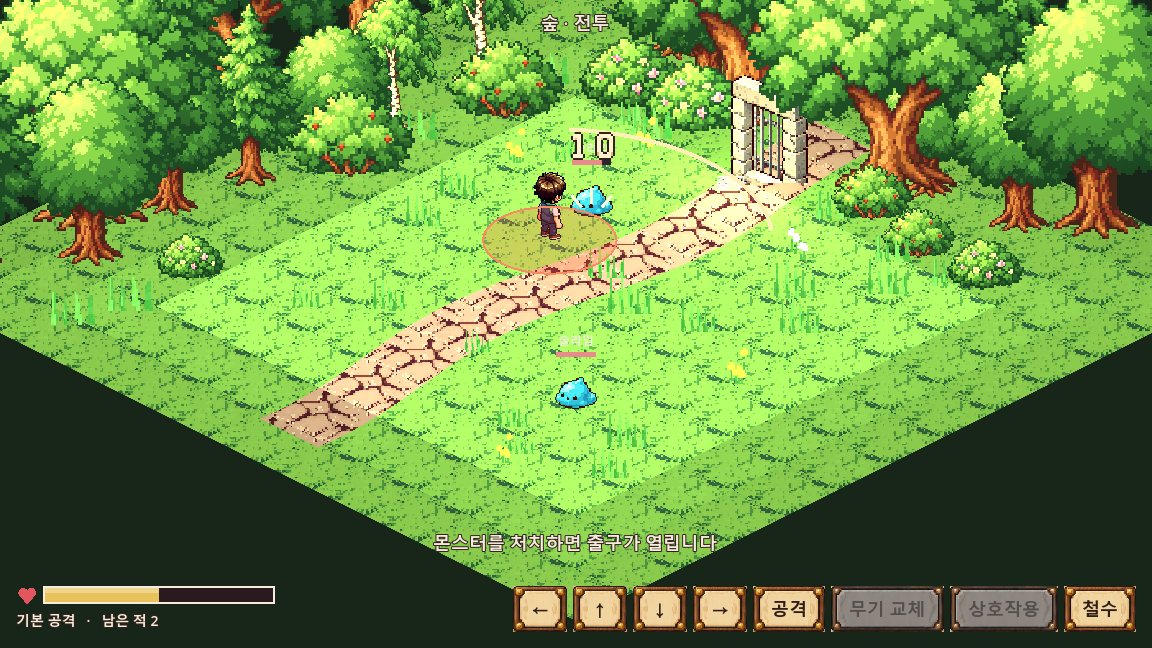
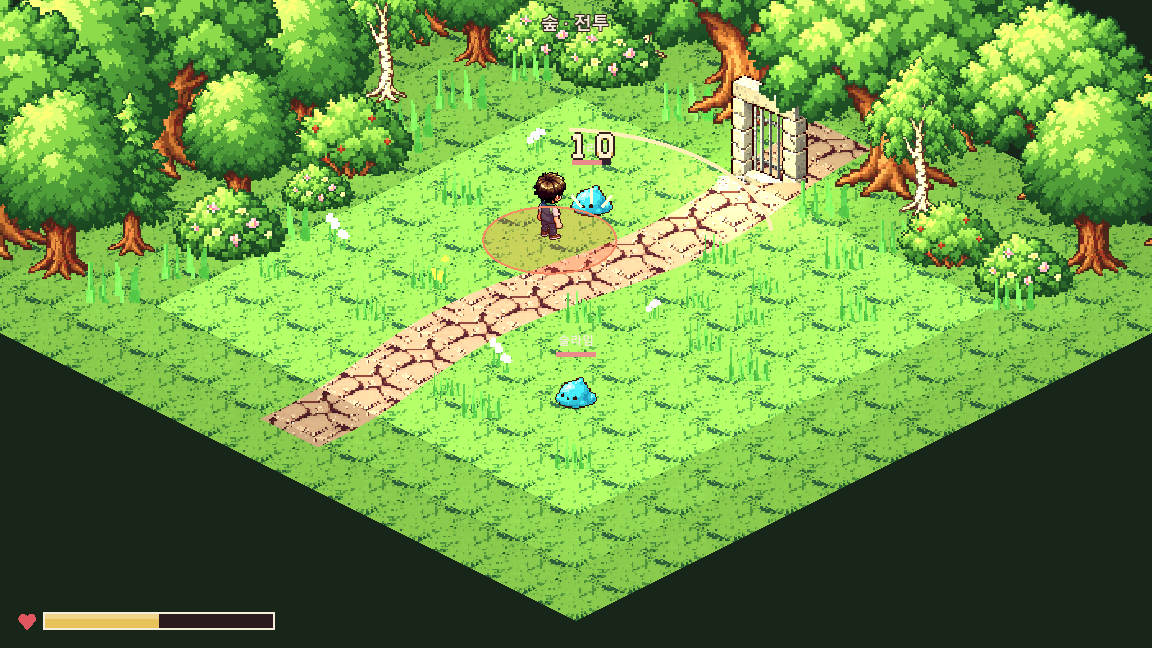
fix: clear the expedition footer except health
Hide all bottom action controls, weapon/enemy text and idle guidance. Keep necessary status under the title. Preserve keyboard actions, add R room withdrawal with menu guard, and keep old button signals hidden for compatibility.

Godot 4.7.1 import twice errors 0; GPU HUD 102/0 at both display sizes; actual E/J/R progression 66/0; loads 891/0; expedition 16/16 clears, 104 nodes, stuck 0; docs missing/broken 0. Runtime screenshots and handoff updated.

diff --git a/docs/그림_작업/원정_UI와_피해_숫자.md b/docs/그림_작업/원정_UI와_피해_숫자.md
@@ -5,9 +5,9 @@
 ## 표시 방식
 
 - 방 화면의 WASD·방향키·J/Space·Q·E 설명과 버튼의 단축키 표기를 없앴다. 기존 키 입력과 버튼 기능은 그대로 작동한다.
-- 하트·HP 막대를 왼쪽 아래로 옮겼다. 체력은 기존처럼 막대로 표시하고, 무기·남은 적은 바로 아래에 표시한다.
-- 행동 버튼은 오른쪽 아래에 배치한다. 작은 표시 영역에서는 HP 위로 올리고 줄을 나눠 겹침을 방지한다.
-- 도구 부족, 채집 진행·결과, 열린 출구 등 진행 상태는 유지한다. 상태 문구에 외곽선을 붙여 밝은 배경에서도 읽히게 했다.
+- 하트·HP 막대를 왼쪽 아래로 옮겼다. 사용자 후속 요청으로 무기·남은 적 문구까지 없애고 하단에는 HP만 표시한다.
+- 사용자 후속 요청으로 하단의 이동·공격·교체·상호작용·철수 버튼도 화면에서 제거했다. WASD/방향키·J/Space·Q·E 입력은 유지하고, 방 안 철수는 R 키로 연결했다. 메뉴가 열려 있으면 이 입력도 차단한다.
+- 도구 부족, 채집 진행·결과, 열린 출구 등 진행 상태는 유지한다. 필요한 상태 문구는 제목 아래로 옮기고 외곽선을 붙였다. 평소의 전투·출구 안내는 숨겨 하단을 비운다.
 
 ## 숫자 그림과 연결
 
@@ -31,7 +31,7 @@ imagegen으로 **0~9를 한 장씩** 만들었다. 받은 원본 10장과 프롬
 
 ![1152×648 원정 HP·피해 10 표시](원정_UI와_피해_숫자/원정_1152.png)
 
-![593×523 표시 영역의 버튼 줄바꿈](원정_UI와_피해_숫자/원정_593.png)
+![593×523 표시 영역에서도 하단은 HP만 표시](원정_UI와_피해_숫자/원정_593.png)
 
 작은 창 캡처는 검사 장면에서 확대 설정을 잠시 해제해 표시 영역을 실제 픽셀 크기로 확인했다. 게임의 기본 창 확대 설정은 그대로다.
 
@@ -42,7 +42,7 @@ imagegen으로 **0~9를 한 장씩** 만들었다. 받은 원본 10장과 프롬
 | 검사 | 결과 |
 |---|---|
 | 숫자 원본·재현·SHA·알파·규격 | 10장 통과 |
-| HUD·피해 표시 GPU | 1152×648·593×523 각각 110개, 실패 0 |
+| HUD·피해 표시 GPU | 1152×648·593×523 각각 102개, 실패 0 |
 | 실제 피해·빗나감·근접/원거리·여러 적·과잉 피해·효과 만료 | 통과 |
 | 기존 직접 조작·피해 계산 | 실패 0 |
 | 실제 채집·출구·입력·전리품·철수 흐름 | 66개, 실패 0 |
@@ -54,5 +54,7 @@ imagegen으로 **0~9를 한 장씩** 만들었다. 받은 원본 10장과 프롬
 | 경제 계산기 | 종료 코드 0, 경제 데이터·피해 계산식 불변 |
 
 기존 전체 로드의 Unicode NUL 경고는 유지된다. `tools/prepare_damage_digits.py`는 기본 읽기 전용 재현 검사이며, 새 원본 설치는 `--inputs`를 지정한 경우만 수행한다.
+
+후속 점검: 버튼·무기/남은 적·평상시 안내의 비표시, R 철수와 메뉴 차단, 실제 E/J 입력의 채집·전투·출구 진행을 확인했다. 이전 버튼 신호는 기존 연결의 호환용으로 남기되 화면에서는 보이지 않는다.
 
 확인 장면: `res://dev/scenes/check_expedition_hud.tscn`. 사용자 실행 폴더에서 `main`을 Pull한 뒤 실행 중인 게임을 종료하고 다시 시작한다.

diff --git a/.revvy/shared-memory.md b/.revvy/shared-memory.md
@@ -148,3 +148,5 @@ off.
 - 2026-10-12 Codex: 사용자 원정 강제 도트화 해제 요청→방/출발 도로 stretch_shrink3→1, 플레이어·적·도로카메라 픽셀 반올림 제거, 투영2축 배율. 원본 그림 최근접/종횡비/노멀맵·깊이·충돌·경제 유지. GPU1023/로드887 실패0·import2오류0·16/16완주104노드중단0; docs/그림_작업/원정_해상도_복원.md에 실제전후캡처. 렌더픽셀9배, 저사양성능 별도확인.
 
 - 2026-10-12 Codex: 원정 UI 사용자 변경→방 조작안내/키표시 제거·HP좌하단/작은영역버튼줄바꿈·원본숫자10장 imagegen/허용Python12×16·3색·알파0/255. 실제HP감소량만 PNG조합0.85초상승/만료, 보스끝0.45초표시 후 기존보상. HUD110×2/채집66/그림1023/로드891 실패0·16/16완주104노드중단0·import2오류0·에셋1877/WARN28/FAIL0·경제불변. 원정_UI와_피해_숫자.md/인수인계45; HP는막대 유지, 명중피해만숫자 최신예외.
+
+- 2026-10-12 Codex: 사용자 하단도삭제 정정→방 행동버튼과 무기/남은적/평상시안내 비표시·하단HP만. 필요상태 제목아래, 기존키 유지/J·Space즉시명중·R방철수/메뉴차단, 이전버튼신호호환용hidden. HUD102×2/실제키채집66/로드891 실패0·16판104노드중단0·import2오류0. 원정_UI와_피해_숫자.md/인수인계45/캡처최신; 종전버튼줄바꿈은후속요청으로폐기.
